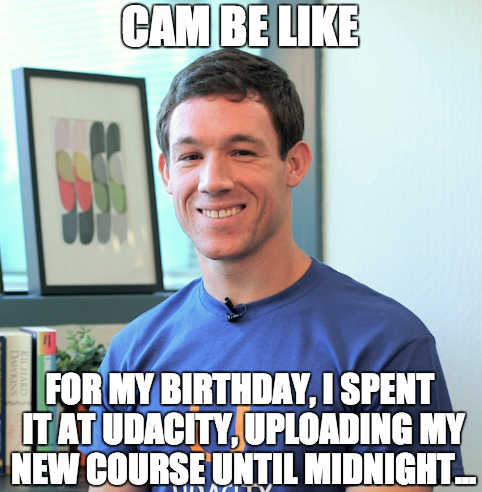
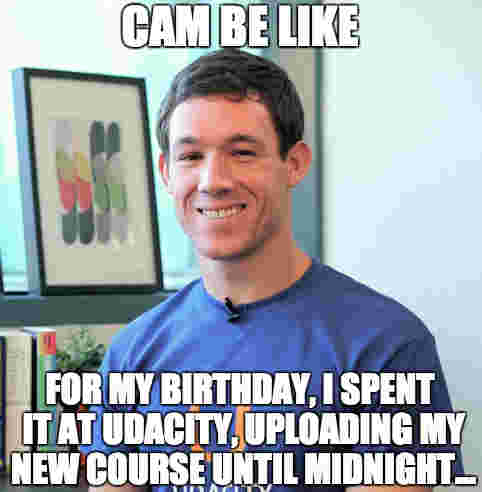
update: further compressed images

diff --git a/Gruntfile.js b/Gruntfile.js
@@ -16,7 +16,7 @@ module.exports = function(grunt) {
           sizes: [{
             width: '100%',
             suffix: '',
-            quality: 50
+            quality: 10
           }]
         },
         files: [{
